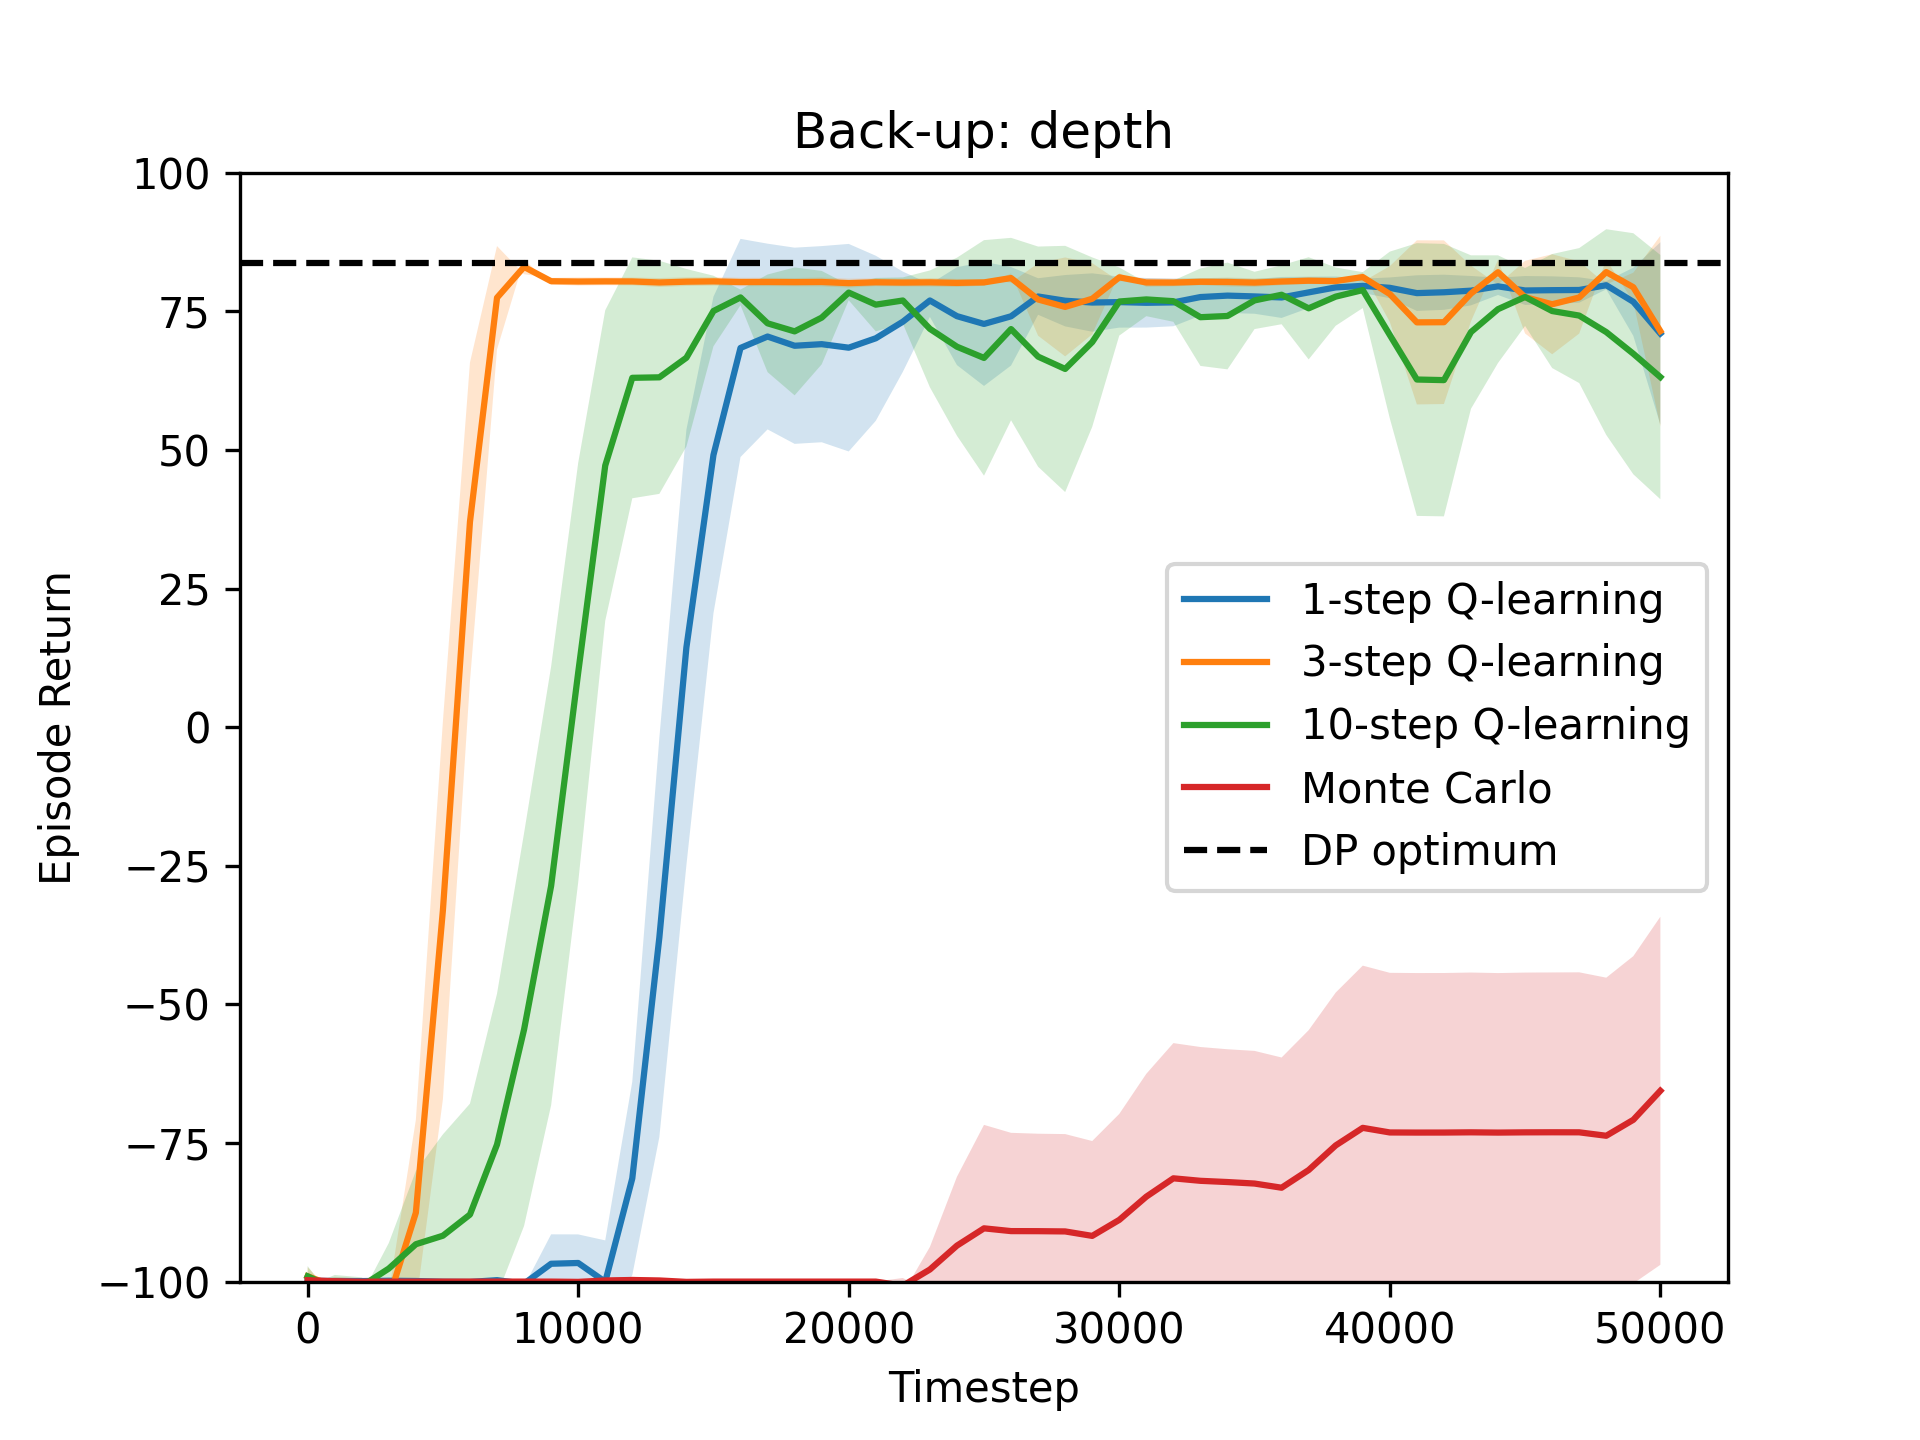
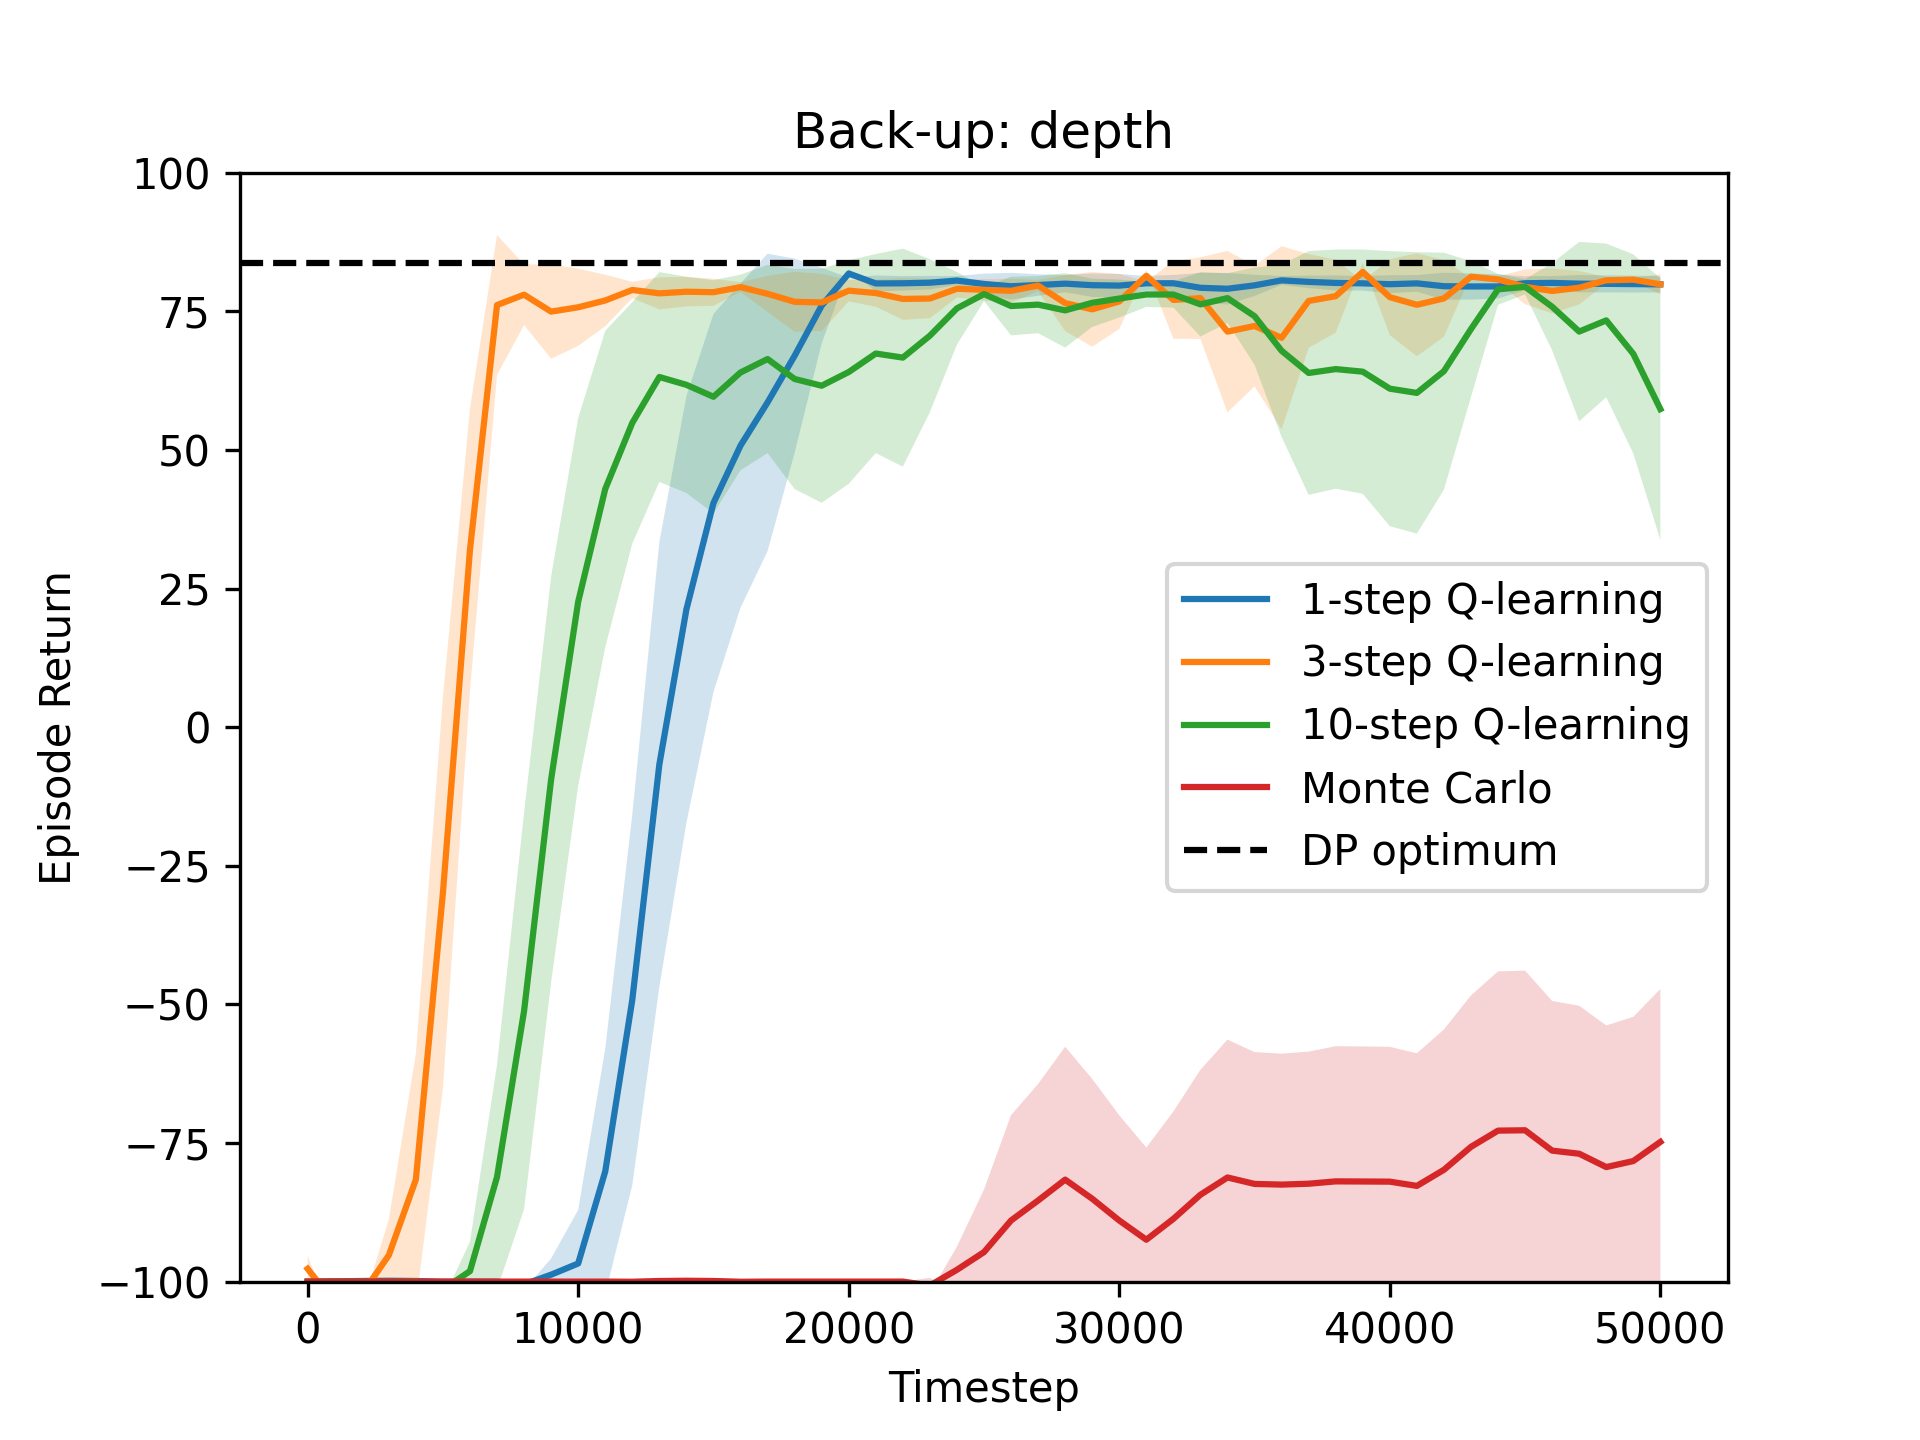
Final Version and Plots Uploaded. Plots without confidence to be generated

diff --git a/Experiment.py b/Experiment.py
@@ -31,22 +31,23 @@ def mean_ci(curves, ci=0.95):
 def average_over_repetitions(backup, n_repetitions, n_timesteps, max_episode_length, learning_rate, gamma,
                              policy='egreedy',
                              epsilon=None, temp=None, smoothing_window=None, plot=False, n=5, eval_interval=500,
-                             goal_locations=None, goal_rewards=None):
+                             goal_locations=None, goal_rewards=None, base_seed=42):
     returns_over_repetitions = []
     now = time.time()
 
     for rep in range(n_repetitions):  # Loop over repetitions
+        seed = base_seed + rep
         if backup == 'q':
             returns, timesteps = q_learning(n_timesteps, learning_rate, gamma, policy, epsilon, temp, plot,
-                                            eval_interval, goal_locations, goal_rewards)
+                                            eval_interval, goal_locations, goal_rewards, seed=seed)
         elif backup == 'sarsa':
-            returns, timesteps = sarsa(n_timesteps, learning_rate, gamma, policy, epsilon, temp, plot, eval_interval)
+            returns, timesteps = sarsa(n_timesteps, learning_rate, gamma, policy, epsilon, temp, plot, eval_interval, seed=seed)
         elif backup == 'nstep':
             returns, timesteps = n_step_Q(n_timesteps, max_episode_length, learning_rate, gamma,
-                                          policy, epsilon, temp, plot, n, eval_interval)
+                                          policy, epsilon, temp, plot, n, eval_interval, seed=seed)
         elif backup == 'mc':
             returns, timesteps = monte_carlo(n_timesteps, max_episode_length, learning_rate, gamma,
-                                             policy, epsilon, temp, plot, eval_interval)
+                                             policy, epsilon, temp, plot, eval_interval, seed=seed)
 
         returns_over_repetitions.append(returns)
 
@@ -64,7 +65,8 @@ def average_over_repetitions(backup, n_repetitions, n_timesteps, max_episode_len
 
 def experiment():
     ####### Settings
-    # Experiment      
+    # Experiment
+    seed = 1
     n_repetitions = 20  # 20
     smoothing_window = 5  # 9 # Must be an odd number. Use 'None' to switch smoothing off!
     plot = False  # Plotting is very slow, switch it off when we run repetitions

diff --git a/Agent.py b/Agent.py
@@ -9,45 +9,45 @@ By Thomas Moerland
 import numpy as np
 from Helper import softmax, argmax
 
+import numpy as np
+from Helper import softmax, argmax
+
 class BaseAgent:
 
-    def __init__(self, n_states, n_actions, learning_rate, gamma):
+    def __init__(self, n_states, n_actions, learning_rate, gamma, rng=None):
         self.n_states = n_states
         self.n_actions = n_actions
         self.learning_rate = learning_rate
         self.gamma = gamma
-        self.Q_sa = np.zeros((n_states,n_actions))
-        
+        self.Q_sa = np.zeros((n_states, n_actions))
+        self.rng = rng if rng is not None else np.random.default_rng()
+
     def select_action(self, s, policy='egreedy', epsilon=None, temp=None):
-        
+
         if policy == 'greedy':
-            return argmax(self.Q_sa[s])
+            return argmax(self.Q_sa[s], rng=self.rng)
 
         elif policy == 'egreedy':
             if epsilon is None:
                 raise KeyError("Provide an epsilon")
 
-            # print(self.Q_sa[s])
-            max_action = argmax(self.Q_sa[s])
+            max_action = argmax(self.Q_sa[s], rng=self.rng)
             chance = 1 - epsilon * ((self.n_actions - 1) / self.n_actions)
-            if chance > np.random.random():
-                # exploit
+
+            if chance > self.rng.random():
                 a = max_action
             else:
-                # explore
-                options_left = list(range(0, self.n_actions))
+                options_left = list(range(self.n_actions))
                 options_left.remove(max_action)
-                # print(max_action)
-                # print(options_left)
-                a = np.random.choice(options_left)
+                a = self.rng.choice(options_left)
 
         elif policy == 'softmax':
             if temp is None:
                 raise KeyError("Provide a temperature")
-            
+
             action_probs = softmax(self.Q_sa[s], temp)
-            a = np.random.choice(self.n_actions, p=action_probs)
-              
+            a = self.rng.choice(self.n_actions, p=action_probs)
+
         return a
         
     def update(self):

diff --git a/Environment.py b/Environment.py
@@ -6,7 +6,6 @@ Leiden University, The Netherlands
 By Thomas Moerland
 """
 import matplotlib
-matplotlib.use('Qt5Agg') # 'TkAgg'
 import numpy as np
 import matplotlib.pyplot as plt
 from matplotlib.patches import Rectangle,Circle,Arrow
@@ -17,7 +16,7 @@ class StochasticWindyGridworld:
         Compared to the book version, the vertical wind is now stochastic, and only blows 80% of times
     '''
     
-    def __init__(self,initialize_model=True):
+    def __init__(self,initialize_model=True,rng=None):
         self.height = 7 # 7
         self.width = 10 # 10
         self.shape = (self.width, self.height)
@@ -46,6 +45,7 @@ class StochasticWindyGridworld:
         self.fig = None
         self.Q_labels = None
         self.arrows = None
+        self.rng = rng if rng is not None else np.random.default_rng()
         
         # Set agent to the start location
         self.reset() 
@@ -61,7 +61,7 @@ class StochasticWindyGridworld:
         Returns the next state, the obtained reward, and a boolean whether the environment terminated '''
         self.agent_location += self.action_effects[a] # effect of action
         self.agent_location = np.clip(self.agent_location,(0,0),np.array(self.shape)-1) # bound within grid
-        if np.random.rand() < self.wind_blows_proportion: # apply effect of wind
+        if self.rng.random() < self.wind_blows_proportion: # apply effect of wind
             self.agent_location[1] += self.winds[self.agent_location[0]] # effect of wind
         self.agent_location = np.clip(self.agent_location,(0,0),np.array(self.shape)-1) # bound within grid
         s_next = self._location_to_state(self.agent_location)    

diff --git a/Q_learning.py b/Q_learning.py
@@ -21,12 +21,19 @@ class QLearningAgent(BaseAgent):
 
 
 def q_learning(n_timesteps, learning_rate, gamma, policy='egreedy', epsilon=None, temp=None, plot=True,
-               eval_interval=500, goal_locations=None, goal_rewards=None):
+               eval_interval=500, goal_locations=None, goal_rewards=None, seed=None):
     ''' runs a single repetition of q_learning
     Return: rewards, a vector with the observed rewards at each timestep '''
 
-    env = StochasticWindyGridworld(initialize_model=False)
-    eval_env = StochasticWindyGridworld(initialize_model=True)
+    master_rng = np.random.default_rng(seed)
+
+    env_rng = np.random.default_rng(master_rng.integers(0, 2 ** 32))
+    eval_rng = np.random.default_rng(master_rng.integers(0, 2 ** 32))
+    agent_rng = np.random.default_rng(master_rng.integers(0, 2 ** 32))
+
+    env = StochasticWindyGridworld(initialize_model=False, rng=env_rng)
+    eval_env = StochasticWindyGridworld(initialize_model=True, rng=eval_rng)
+    agent = QLearningAgent(env.n_states, env.n_actions, learning_rate, gamma, rng=agent_rng)
 
     if goal_locations is not None:
         env.goal_locations = goal_locations
@@ -37,7 +44,7 @@ def q_learning(n_timesteps, learning_rate, gamma, policy='egreedy', epsilon=None
     if goal_locations is not None or goal_rewards is not None:
         eval_env._construct_model()
 
-    agent = QLearningAgent(env.n_states, env.n_actions, learning_rate, gamma)
+    # agent = QLearningAgent(env.n_states, env.n_actions, learning_rate, gamma)
     eval_timesteps = []
     eval_returns = []
 

diff --git a/Nstep.py b/Nstep.py
@@ -30,13 +30,24 @@ class NstepQLearningAgent(BaseAgent):
 
 
 def n_step_Q(n_timesteps, max_episode_length, learning_rate, gamma, 
-                   policy='egreedy', epsilon=None, temp=None, plot=True, n=5, eval_interval=500):
+                   policy='egreedy', epsilon=None, temp=None, plot=True, n=5, eval_interval=500, seed=None):
     ''' runs a single repetition of an MC rl agent
-    Return: rewards, a vector with the observed rewards at each timestep ''' 
+    Return: rewards, a vector with the observed rewards at each timestep '''
+
+
+    master_rng = np.random.default_rng(seed)
+
+    env_rng = np.random.default_rng(master_rng.integers(0, 2 ** 32))
+    eval_rng = np.random.default_rng(master_rng.integers(0, 2 ** 32))
+    agent_rng = np.random.default_rng(master_rng.integers(0, 2 ** 32))
+
+    env = StochasticWindyGridworld(initialize_model=False, rng=env_rng)
+    eval_env = StochasticWindyGridworld(initialize_model=True, rng=eval_rng)
+    pi = NstepQLearningAgent(env.n_states, env.n_actions, learning_rate, gamma, rng=agent_rng)
     
-    env = StochasticWindyGridworld(initialize_model=False)
-    eval_env = StochasticWindyGridworld(initialize_model=True)
-    pi = NstepQLearningAgent(env.n_states, env.n_actions, learning_rate, gamma)
+    # env = StochasticWindyGridworld(initialize_model=False)
+    # eval_env = StochasticWindyGridworld(initialize_model=True)
+    # pi = NstepQLearningAgent(env.n_states, env.n_actions, learning_rate, gamma)
 
     eval_timesteps = np.arange(0, n_timesteps, eval_interval)
     eval_returns = []

diff --git a/MonteCarlo.py b/MonteCarlo.py
@@ -25,13 +25,20 @@ class MonteCarloAgent(BaseAgent):
             self.Q_sa[s, a] += self.learning_rate * (G_t - self.Q_sa[s, a])
 
 def monte_carlo(n_timesteps, max_episode_length, learning_rate, gamma, 
-                   policy='egreedy', epsilon=None, temp=None, plot=True, eval_interval=500):
+                   policy='egreedy', epsilon=None, temp=None, plot=True, eval_interval=500, seed=None):
     ''' runs a single repetition of an MC rl agent
-    Return: rewards, a vector with the observed rewards at each timestep ''' 
-    
-    env = StochasticWindyGridworld(initialize_model=False)
-    eval_env = StochasticWindyGridworld(initialize_model=True)
-    pi = MonteCarloAgent(env.n_states, env.n_actions, learning_rate, gamma)
+    Return: rewards, a vector with the observed rewards at each timestep '''
+
+    master_rng = np.random.default_rng(seed)
+
+    env_rng = np.random.default_rng(master_rng.integers(0, 2 ** 32))
+    eval_rng = np.random.default_rng(master_rng.integers(0, 2 ** 32))
+    agent_rng = np.random.default_rng(master_rng.integers(0, 2 ** 32))
+
+    env = StochasticWindyGridworld(initialize_model=False, rng=env_rng)
+    eval_env = StochasticWindyGridworld(initialize_model=True, rng=eval_rng)
+    pi = MonteCarloAgent(env.n_states, env.n_actions, learning_rate, gamma, rng=agent_rng)
+    # pi = MonteCarloAgent(env.n_states, env.n_actions, learning_rate, gamma)
 
     eval_timesteps = np.arange(0, n_timesteps, eval_interval)
     eval_returns = []

diff --git a/SARSA.py b/SARSA.py
@@ -20,13 +20,20 @@ class SarsaAgent(BaseAgent):
         self.Q_sa[s, a] += self.learning_rate * (target - self.Q_sa[s, a])
 
 
-def sarsa(n_timesteps, learning_rate, gamma, policy='egreedy', epsilon=None, temp=None, plot=True, eval_interval=500):
+def sarsa(n_timesteps, learning_rate, gamma, policy='egreedy', epsilon=None, temp=None, plot=True, eval_interval=500, seed=None):
     ''' runs a single repetition of SARSA
-    Return: rewards, a vector with the observed rewards at each timestep ''' 
-    
-    env = StochasticWindyGridworld(initialize_model=False)
-    eval_env = StochasticWindyGridworld(initialize_model=True)
-    pi = SarsaAgent(env.n_states, env.n_actions, learning_rate, gamma)
+    Return: rewards, a vector with the observed rewards at each timestep '''
+
+    master_rng = np.random.default_rng(seed)
+
+    env_rng = np.random.default_rng(master_rng.integers(0, 2 ** 32))
+    eval_rng = np.random.default_rng(master_rng.integers(0, 2 ** 32))
+    agent_rng = np.random.default_rng(master_rng.integers(0, 2 ** 32))
+
+    env = StochasticWindyGridworld(initialize_model=False, rng=env_rng)
+    eval_env = StochasticWindyGridworld(initialize_model=True, rng=eval_rng)
+    pi = SarsaAgent(env.n_states, env.n_actions, learning_rate, gamma, rng=agent_rng)
+    # pi = SarsaAgent(env.n_states, env.n_actions, learning_rate, gamma)
     eval_timesteps = []
     eval_returns = []
 

diff --git a/Helper.py b/Helper.py
@@ -58,12 +58,20 @@ def softmax(x, temp):
     z = x - max(x) # substract max to prevent overflow of softmax 
     return np.exp(z)/np.sum(np.exp(z)) # compute softmax
 
-def argmax(x):
-    ''' Own variant of np.argmax with random tie breaking '''
-    try:
-        return np.random.choice(np.where(x == np.max(x))[0])
-    except:
-        return np.argmax(x)
+# def argmax(x):
+#     ''' Own variant of np.argmax with random tie breaking '''
+#     try:
+#         return np.random.choice(np.where(x == np.max(x))[0])
+#     except:
+#         return np.argmax(x)
+
+
+def argmax(x, rng=None):
+    """np.argmax with random tie-breaking."""
+    ties = np.where(x == np.max(x))[0]
+    if rng is None:
+        return np.random.choice(ties)
+    return rng.choice(ties)
 
 def linear_anneal(t,T,start,final,percentage):
     ''' Linear annealing scheduler
